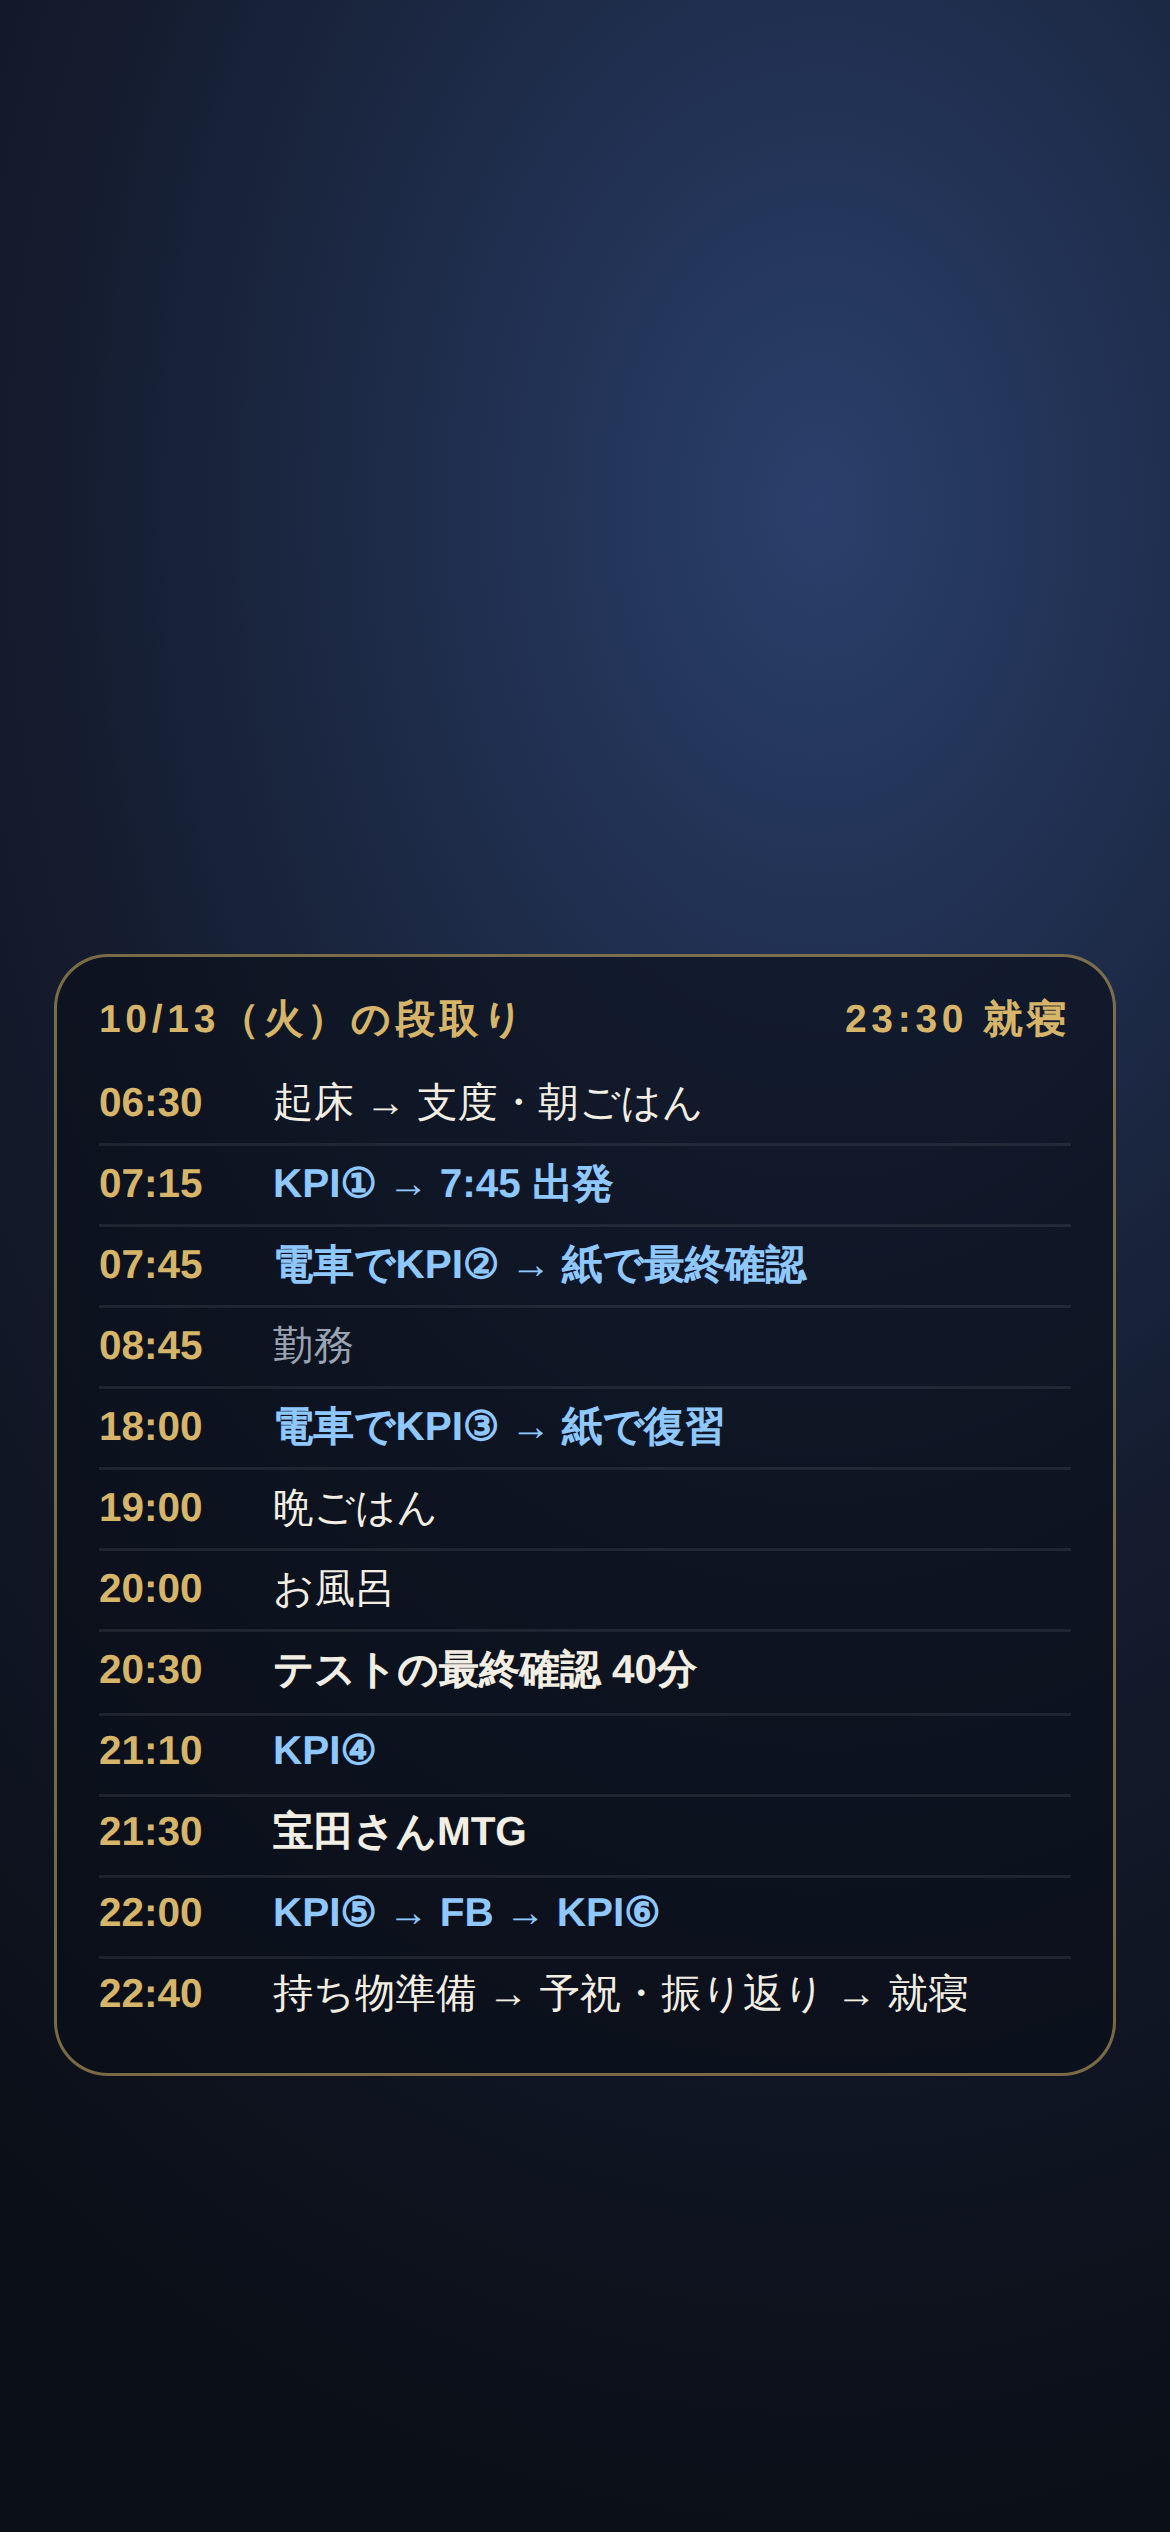
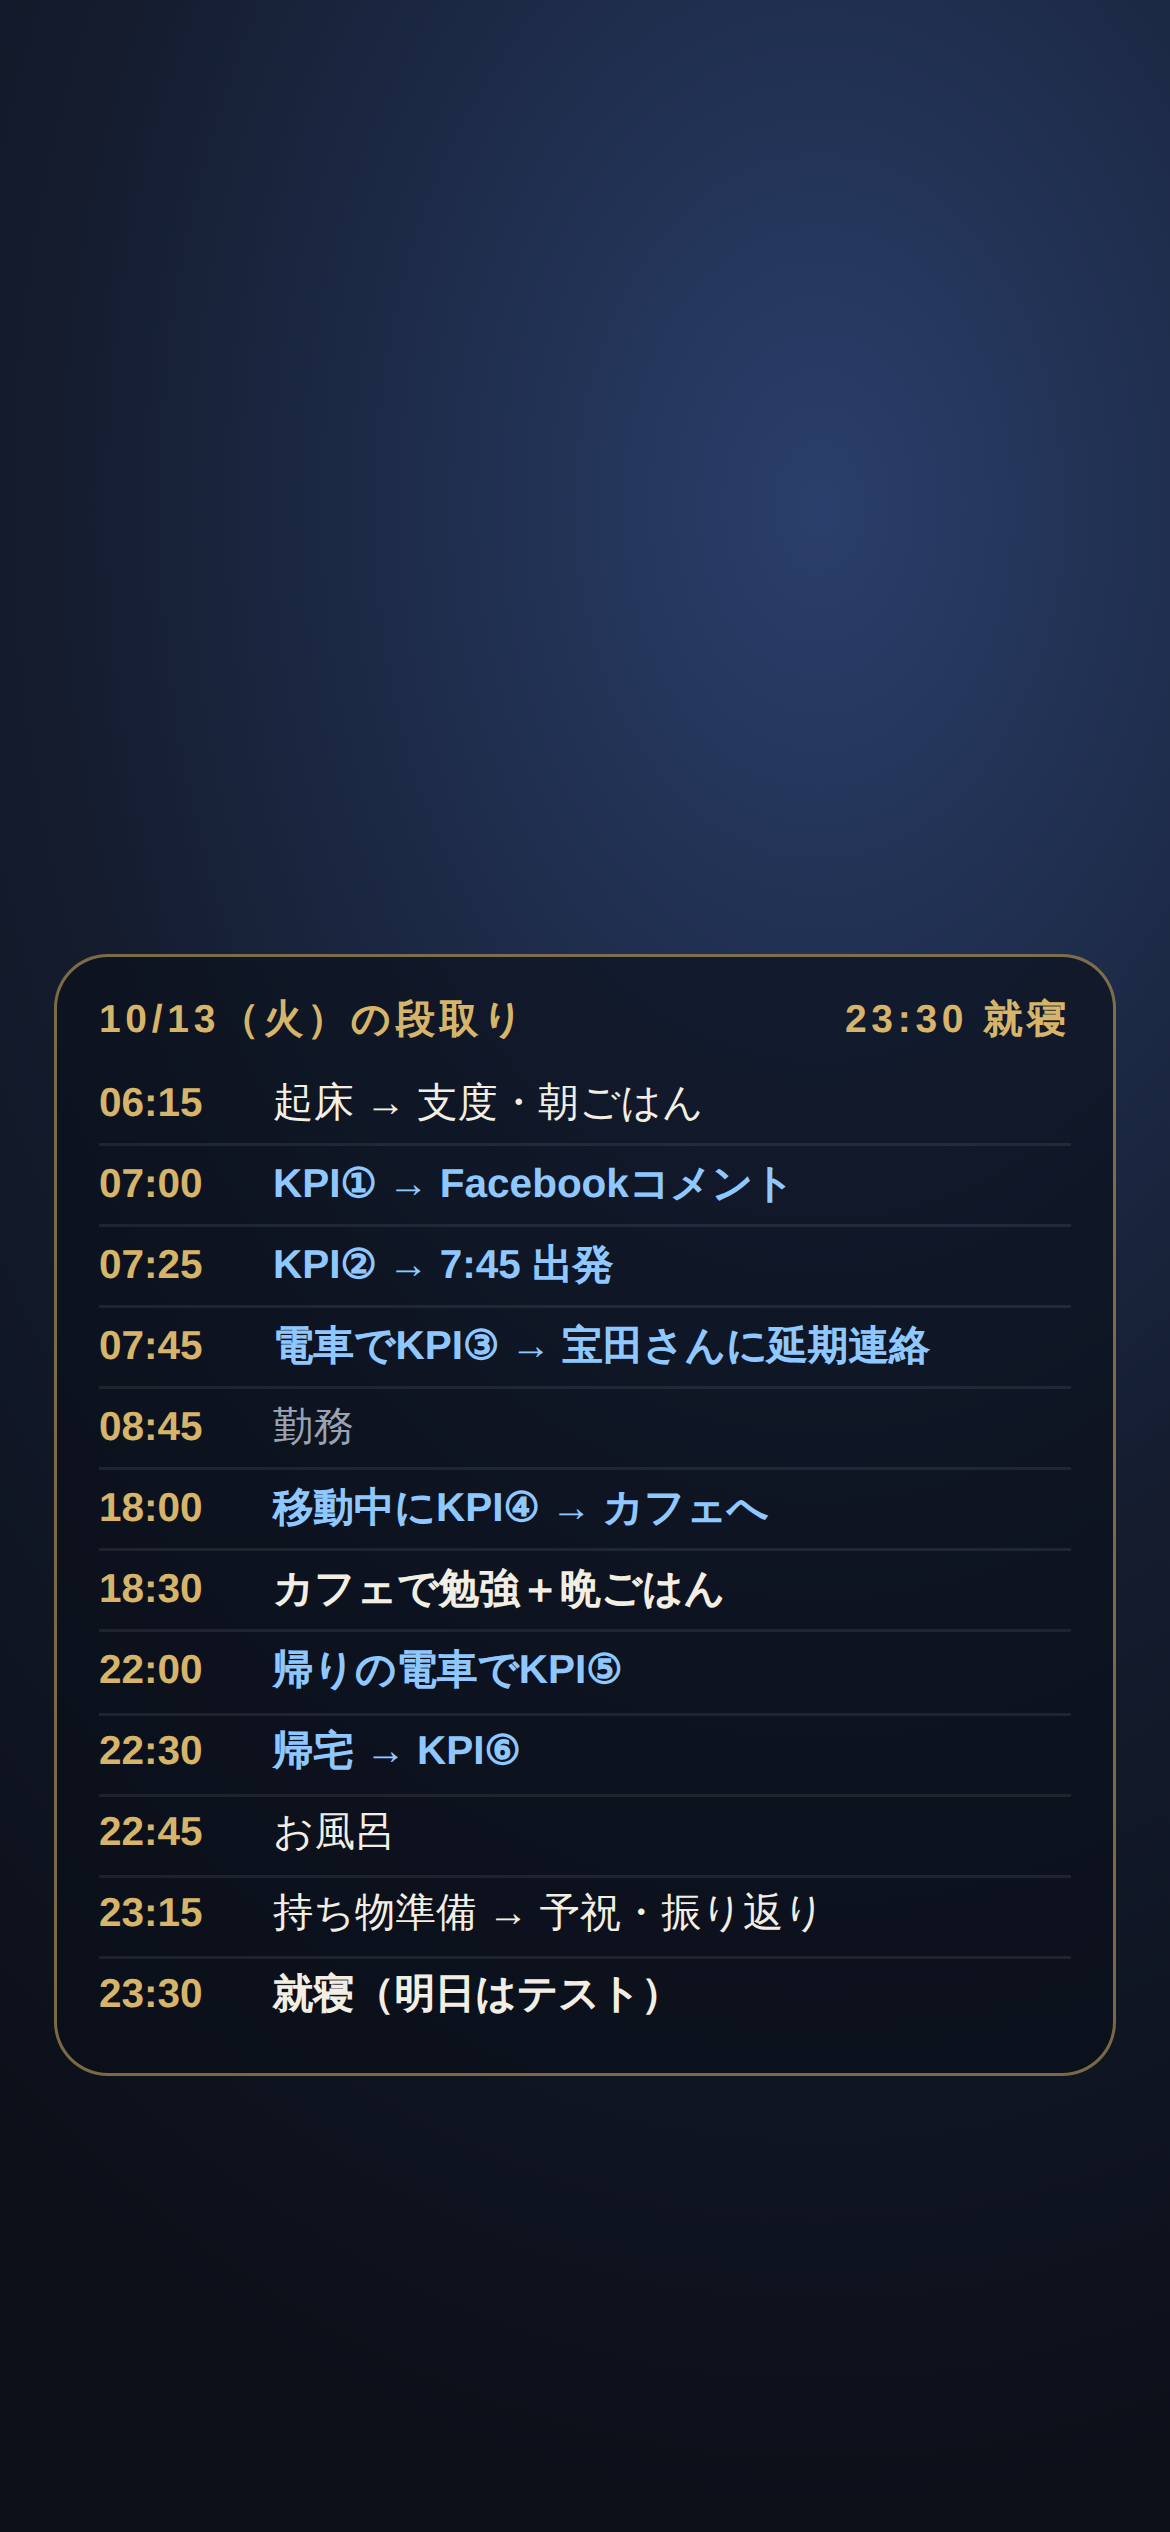
段取り表・待受画像: 10/13をカフェ勉強に合わせて組み直し
Claude-Session: https://claude.ai/code/session_01U8582CXgJcTRPR8mqEQHmZ

diff --git a/secretary/brief/index.html b/secretary/brief/index.html
@@ -67,79 +67,79 @@ ul{list-style:none;margin:0;padding:0;display:flex;flex-direction:column;gap:2px
 {
   "date": "2026-10-13",
   "label": "10/13（火）",
-  "wake": "6:30",
-  "updated": "前夜22:00作成",
-  "lead": "テスト前日。最終確認40分＋21:30宝田さん",
+  "wake": "6:15",
+  "updated": "23:00更新",
+  "lead": "仕事後カフェで勉強〜22時。KPIは朝と移動中に",
   "must": [
     {
-      "id": "final",
-      "label": "テストの最終確認 40分",
-      "note": "電車でも紙で見直す",
-      "when": "20:30〜"
-    },
-    {
-      "id": "takara",
-      "label": "宝田さんMTG",
-      "note": "",
-      "when": "21:30"
+      "id": "cafe",
+      "label": "カフェで同期とテスト勉強",
+      "note": "晩ごはんもカフェで",
+      "when": "18:30〜"
     },
     {
       "id": "kpi",
       "label": "KPI 15フォロー・20リプ（6枠）",
-      "note": "朝・電車2・夜3",
+      "note": "朝2・移動中3・帰宅後1",
       "when": "6枠"
+    },
+    {
+      "id": "takara",
+      "label": "宝田さんに延期の連絡",
+      "note": "朝の電車で",
+      "when": "朝"
     },
     {
       "id": "bag",
       "label": "テストの持ち物を準備",
-      "note": "寝る前に",
-      "when": "22:40"
+      "note": "帰宅後すぐ",
+      "when": "23:15"
     }
   ],
   "timeline": [
     {
-      "s": "06:30",
+      "s": "06:15",
       "e": "07:45",
-      "label": "支度・朝ごはん",
-      "task": "→7:15 KPI①"
+      "label": "支度→KPI①→FB→KPI②",
+      "task": "→出発"
     },
     {
       "s": "07:45",
-      "e": "19:00",
+      "e": "18:00",
       "label": "勤務8:45〜",
-      "task": "電車でKPI②③・紙で復習",
+      "task": "行きの電車でKPI③",
       "kind": "job"
     },
     {
-      "s": "19:00",
-      "e": "20:30",
-      "label": "晩ごはん→お風呂",
-      "task": ""
+      "s": "18:00",
+      "e": "18:30",
+      "label": "移動中にKPI④",
+      "task": "→カフェ"
     },
     {
-      "s": "20:30",
-      "e": "21:30",
-      "label": "最終確認40分",
-      "task": "→21:10 KPI④"
-    },
-    {
-      "s": "21:30",
+      "s": "18:30",
       "e": "22:00",
-      "label": "宝田さんMTG",
-      "task": ""
+      "label": "カフェで勉強",
+      "task": "晩ごはんも"
     },
     {
       "s": "22:00",
+      "e": "22:45",
+      "label": "帰りにKPI⑤",
+      "task": "→22:30 KPI⑥"
+    },
+    {
+      "s": "22:45",
       "e": "23:30",
-      "label": "KPI⑤→FB→KPI⑥",
-      "task": "→持ち物→予祝→就寝"
+      "label": "お風呂→持ち物",
+      "task": "→予祝→就寝"
     }
   ],
   "deadlines": [
     {
       "d": "10/14（水）",
       "label": "薬剤師 評価テスト",
-      "prep": "今夜は早めに寝る",
+      "prep": "今夜はカフェで仕上げ",
       "days": 1
     },
     {
